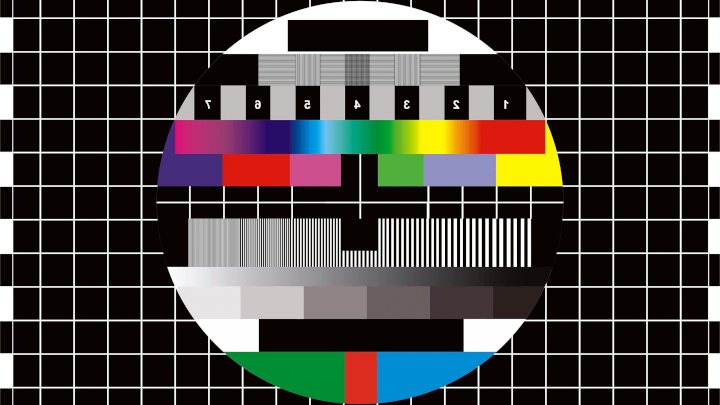
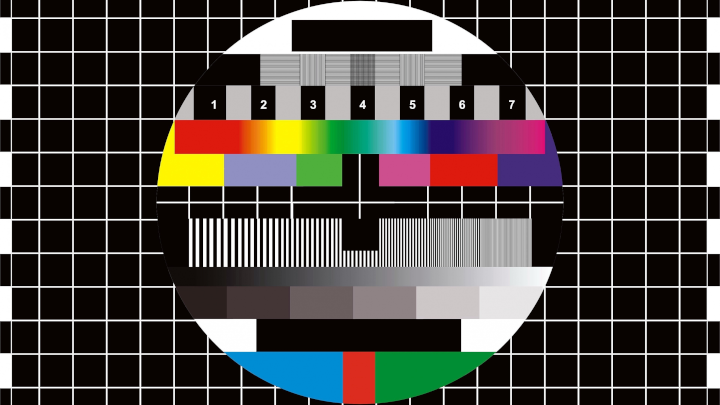
fix image being flipped

diff --git a/client/src/renderer/texture.rs b/client/src/renderer/texture.rs
@@ -42,7 +42,8 @@ pub(super) struct Texture {
 impl Texture {
     pub(super) fn load_from(img_path: &str) -> Result<Self, ImageError> {
         let img = ImageReader::open(img_path)?
-            .decode()?;
+            .decode()?
+            .flipv();
         
         let mut t = Self {
             id: 0,
